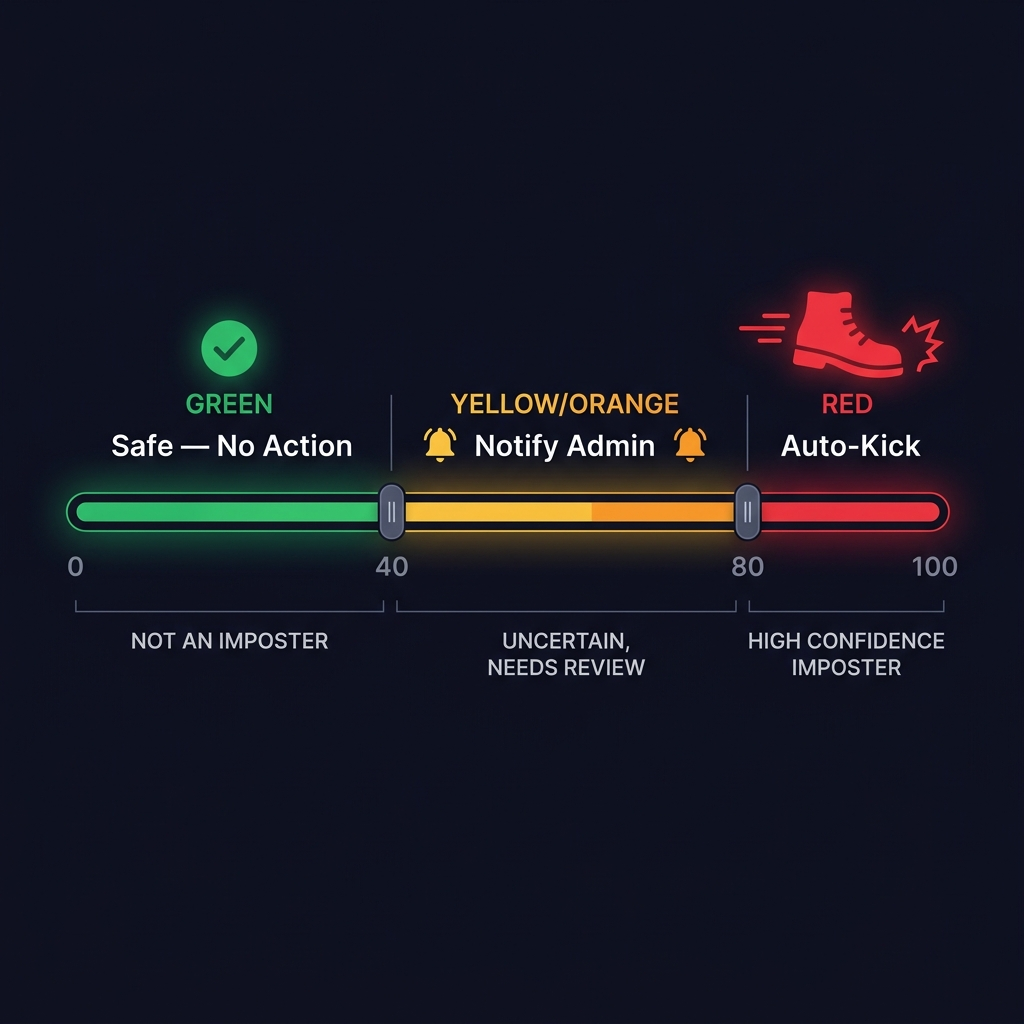
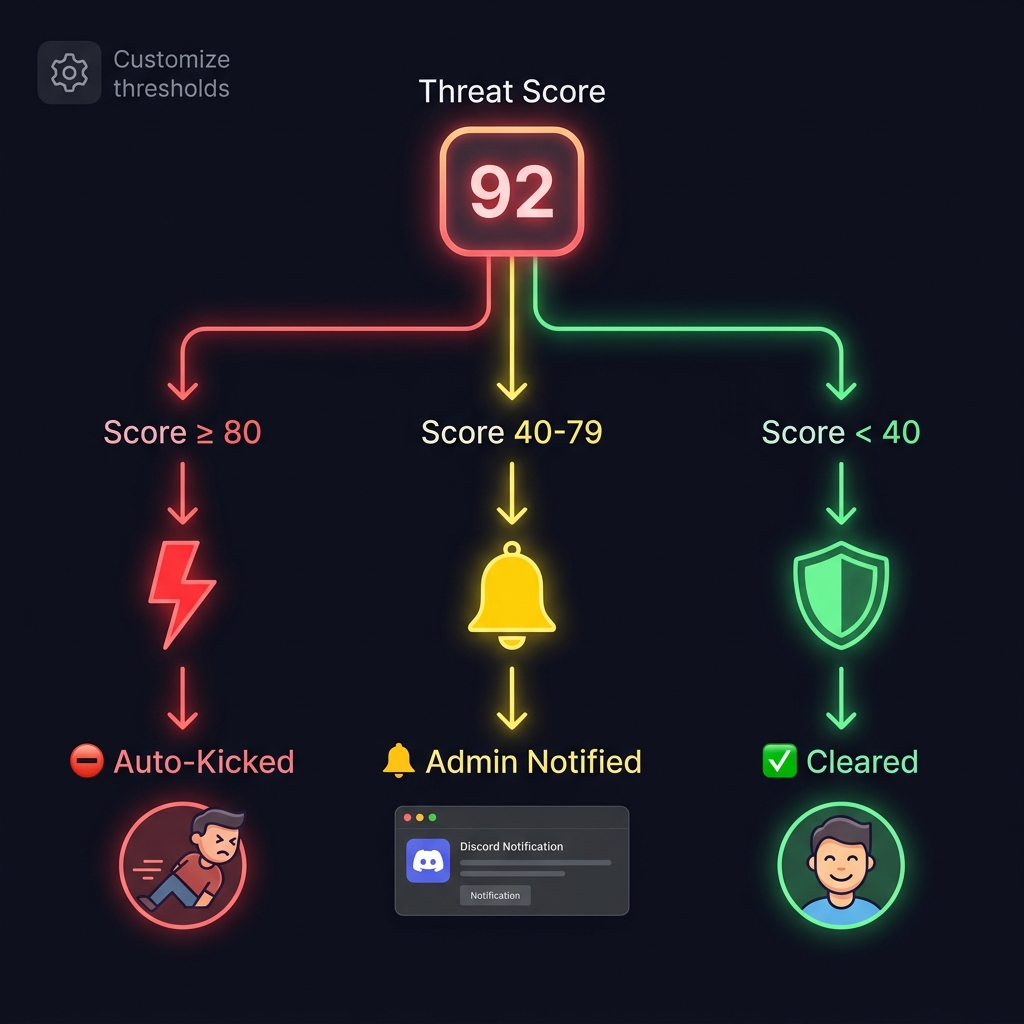
Switch threshold image to flowchart (D), text-left/image-right layout

Changed region(s): [[0.0625, 0.0625, 0.9375, 0.9375], [0.0312, 0.0312, 0.2188, 0.0938]]

diff --git a/index.html b/index.html
@@ -288,7 +288,7 @@
       </div>
 
       <!-- Attack 4: Automated Actions -->
-      <div class="attack-row reverse fade-in">
+      <div class="attack-row fade-in">
         <div class="attack-text">
           <h3>Automated Threat Response</h3>
           <p>Every detected member receives a unified threat score from 0 to 100. Based on that score, the bot takes action automatically — so you don't have to be online 24/7.</p>